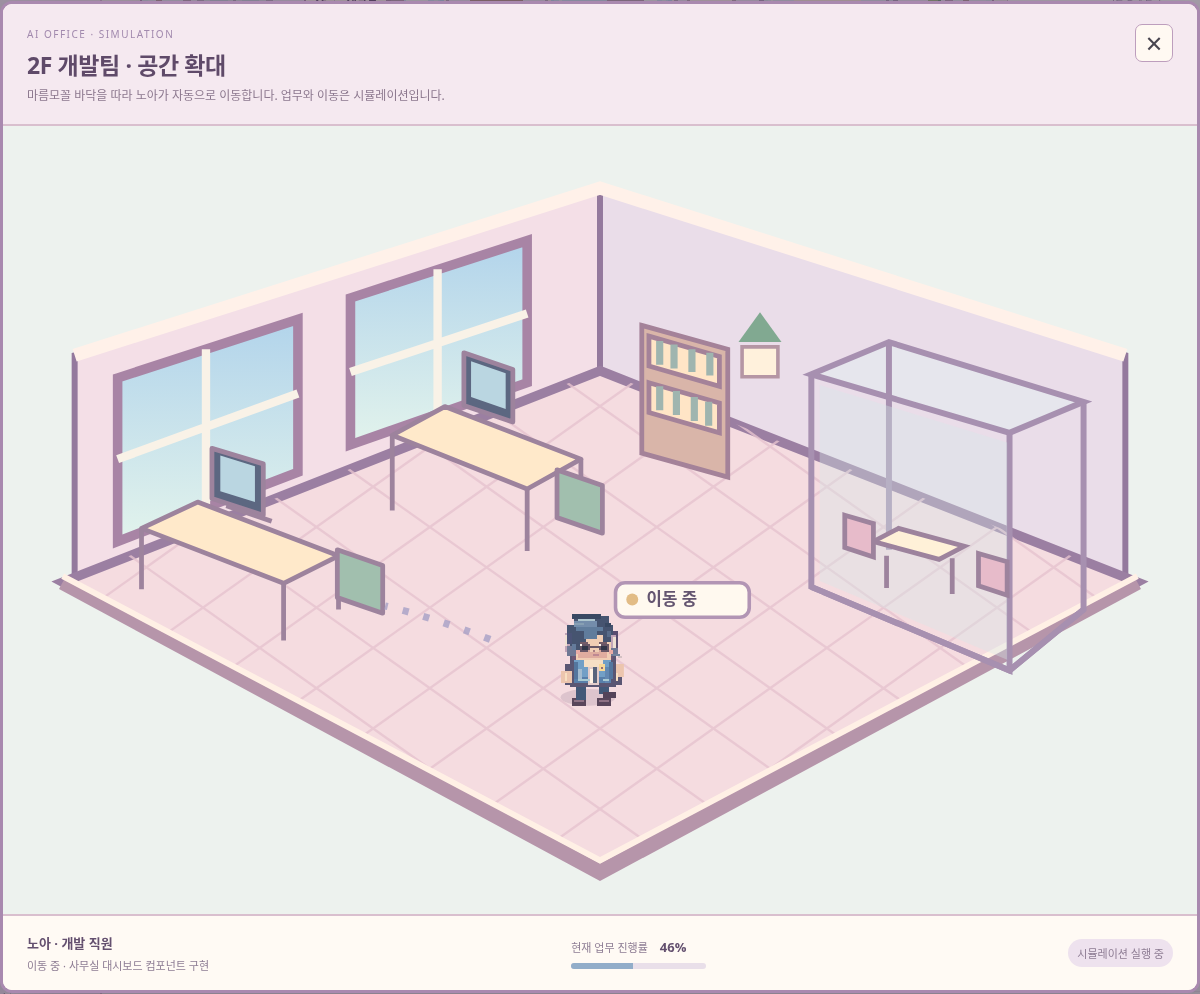
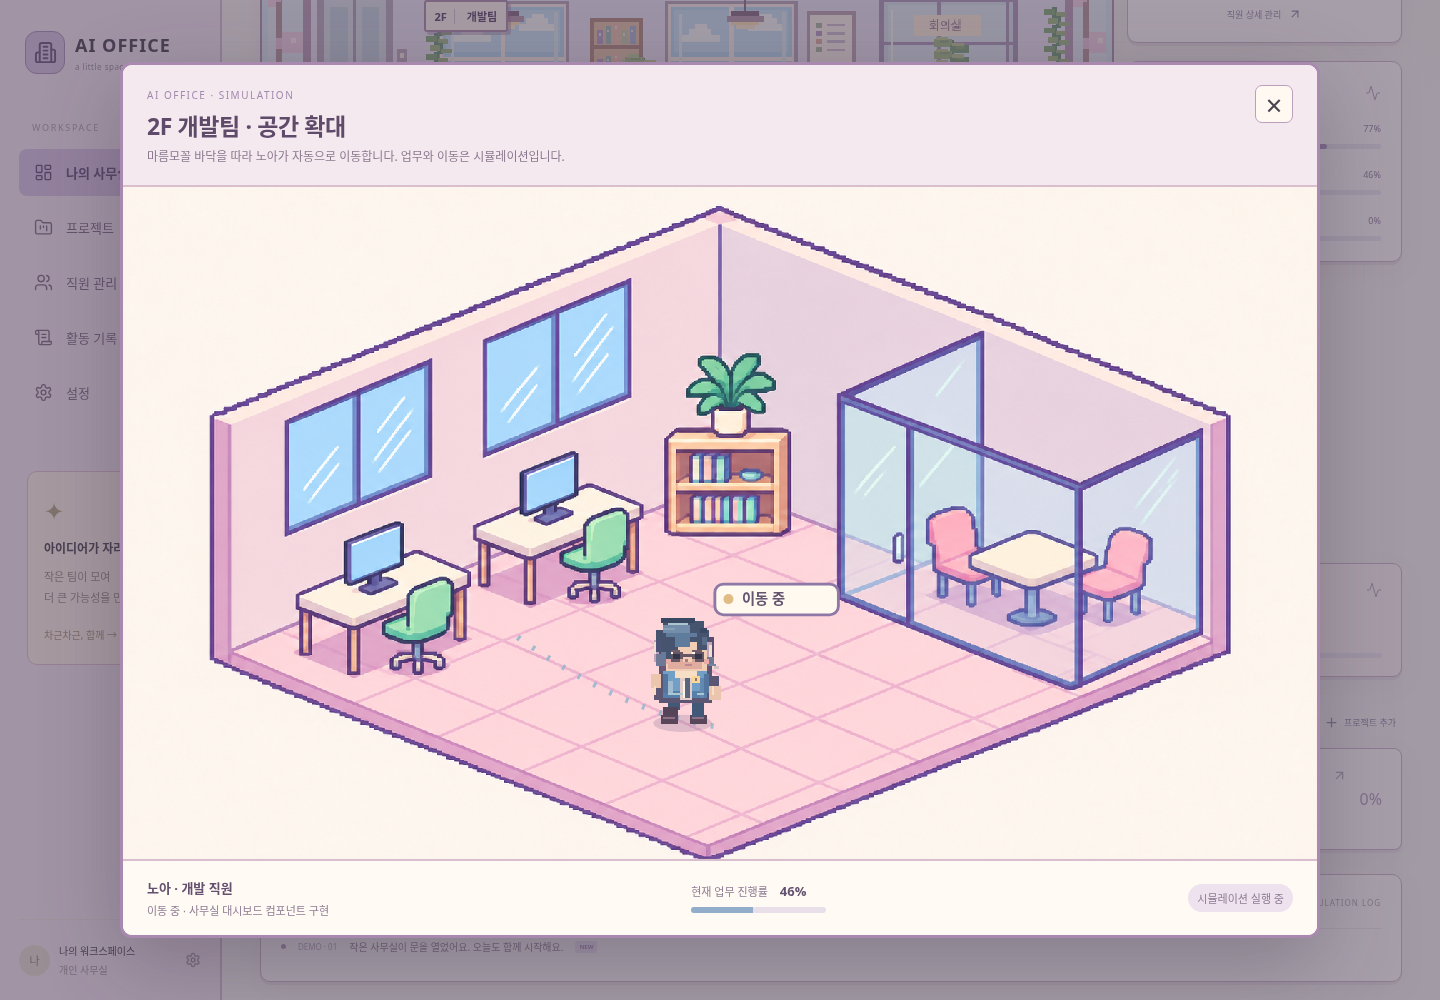
Use original illustrated room art for expanded office floor

diff --git a/src/FloorDetail.tsx b/src/FloorDetail.tsx
@@ -1,6 +1,7 @@
 import {useEffect,useRef,useState} from 'react';
 import type {Employee} from './simulation';
 import {noahSprite} from './noahSprite';
+const roomImage=`${import.meta.env.BASE_URL}rooms/development-floor.png`;
 
 /** A read-only, 2D cutaway of the development floor. Movement belongs to the demo clock. */
 export function FloorDetail({employee,running,onClose}:{employee:Employee;running:boolean;onClose:()=>void}){
@@ -15,41 +16,18 @@ export function FloorDetail({employee,running,onClose}:{employee:Employee;runnin
  const phase=step%90;const walking=running&&working&&!reduced&&(phase<24||phase>=62&&phase<86);
  const lerp=(a:number,b:number,t:number)=>a+(b-a)*t;
  const t=phase<24?phase/24:phase<62?1:phase<86?1-(phase-62)/24:0;
- const x=working?(reduced?290:lerp(522,290,t)):522;const y=working?(reduced?392:lerp(410,392,t)):410;
+ const x=working?(reduced?520:lerp(785,520,t)):785;const y=working?(reduced?510:lerp(620,510,t)):620;
  const frame=walking?(step%6<3?1:2):working&&running&&(phase>=24&&phase<62||reduced)?3:0;
  const activity=working&&!running?'일시정지':walking?'이동 중':working?'책상에서 작업 중':'대기 중';
  return <div className="floor-backdrop" onMouseDown={event=>{if(event.target===event.currentTarget)onClose()}}>
   <section className="floor-dialog" role="dialog" aria-modal="true" aria-labelledby="floor-heading">
    <div className="floor-dialog-header"><div><span>AI OFFICE · SIMULATION</span><h2 id="floor-heading">2F 개발팀 · 공간 확대</h2><p>마름모꼴 바닥을 따라 노아가 자동으로 이동합니다. 업무와 이동은 시뮬레이션입니다.</p></div><button ref={close} className="floor-close" onClick={onClose} aria-label="2층 확대 화면 닫기">×</button></div>
-   <div ref={scroll} className="floor-detail-scroll"><svg className="floor-scene" viewBox="0 0 1000 660" role="img" aria-label={`2층 단면도: 노아 ${activity}. 책상 두 개, 책장과 화분, 유리 회의실이 있는 마름모꼴 공간`}>
-    <defs><clipPath id="floor-diamond"><polygon points="500,205 950,382 500,625 50,382"/></clipPath><linearGradient id="window-blue" x2="0" y2="1"><stop stopColor="#b2d4eb"/><stop offset="1" stopColor="#e2f3ec"/></linearGradient></defs>
-    <rect width="1000" height="660" fill="#edf2ee"/>
-    <polygon points="60,192 500,52 500,205 60,382" fill="#f4dfe7" stroke="#94799d" strokeWidth="5"/>
-    <polygon points="500,52 940,192 940,382 500,205" fill="#eadde9" stroke="#94799d" strokeWidth="5"/>
-    <path d="M60 192 500 52 940 192" fill="none" stroke="#fff1e9" strokeWidth="11"/>
-    <polygon points="96,211 247,162 247,290 96,348" fill="url(#window-blue)" stroke="#a884a5" strokeWidth="8"/>
-    <path d="M170 187V319 M96 279 247 224" stroke="#f9f2e7" strokeWidth="7"/>
-    <polygon points="291,144 439,96 439,215 291,267" fill="url(#window-blue)" stroke="#a884a5" strokeWidth="8"/>
-    <path d="M364 120V242 M291 206 439 157" stroke="#f9f2e7" strokeWidth="7"/>
-    <polygon points="500,205 950,382 500,625 50,382" fill="#f5dce0" stroke="#9b7fa2" strokeWidth="8"/>
-    <g clipPath="url(#floor-diamond)" stroke="#e6c3cf" strokeWidth="2" opacity=".8">{Array.from({length:13},(_,i)=><g key={i}><path d={`M${-140+i*95} 185 ${550+i*95} 675`}/><path d={`M${1140-i*95} 185 ${450-i*95} 675`}/></g>)}</g>
-    <path d="M50 382 500 625 950 382" fill="none" stroke="#b695aa" strokeWidth="13"/>
-    <path d="M50 377 500 615 950 377" fill="none" stroke="#fff0e5" strokeWidth="5"/>
-    {/* Simple furniture, separate from the floor and employee layers. */}
-    <g stroke="#9d839d" strokeWidth="4" strokeLinejoin="round"><path d="M163 315 281 360 235 383 116 337Z" fill="#ffe9ca"/><path d="M116 337v51m119-5v48m46-71v45" fill="none"/><path d="M370 235 484 279 439 304 326 259Z" fill="#ffe9ca"/><path d="M326 259v63m113-18v52m45-77v42" fill="none"/>
-    <path d="M175 270 218 283v43l-43-14Z" fill="#5c6781"/><path d="M182 276 211 285v30l-29-9Z" fill="#bad6e1" stroke="none"/><path d="M187 318 225 331" fill="none"/>
-    <path d="M386 190 427 204v44l-41-14Z" fill="#5c6781"/><path d="M392 197 421 207v30l-29-10Z" fill="#bad6e1" stroke="none"/>
-    <path d="M280 355 318 368v40l-38-13Z" fill="#a1bfae"/><path d="M464 288 502 301v40l-38-13Z" fill="#a1bfae"/></g>
-    <g stroke="#a48299" strokeWidth="4"><path d="M535 167 607 187v107l-72-20Z" fill="#d9b5a9"/><path d="M541 176 600 193v25l-59-17Z" fill="#ffe5c6"/><path d="M541 215 600 232v25l-59-17Z" fill="#ffe5c6"/><path d="M550 180v20m12-17v20m15-16v19m15-16v19M550 218v20m14-16v20m15-15v20m12-16v20" stroke="#9fb5af" strokeWidth="6"/></g>
-    <g><path d="M616 181 634 156 652 181Z" fill="#81a991"/><path d="M619 185h30v25h-30Z" fill="#fff1dc" stroke="#b596a4" strokeWidth="3"/></g>
-    {/* A light glass meeting nook; the near edge stays transparent. */}
-    <g stroke="#a790b0" strokeWidth="5" fill="none"><path d="M677 208 843 257 905 231 742 181Z" fill="#e1edf0" fillOpacity=".55"/><path d="M677 208v178l166 70V257M905 231v174l-62 51M742 181v174"/><path d="M677 386 843 456 905 405"/></g>
-    <path d="M684 217v164l157 66V265Z" fill="#d6e8ea" opacity=".36"/>
-    <g stroke="#9d839d" strokeWidth="4"><path d="M750 337 805 352 784 363 729 348Z" fill="#fff1d8"/><path d="M740 360v27m55-25v30"/><path d="M705 326 729 333v28l-24-8Z" fill="#e7bbca"/><path d="M817 358 841 365v28l-24-8Z" fill="#e7bbca"/></g>
-    <path d="M408 430 Q355 410 320 402" fill="none" stroke="#a6a0c6" strokeWidth="6" strokeDasharray="5 13" opacity={working?.8:0}/>
-    <ellipse cx={x+26} cy={y+73} rx="23" ry="7" fill="#987a93" opacity=".25"/>
-    <svg x={x} y={y} width="56" height="84" viewBox="0 0 32 48" overflow="hidden" style={{imageRendering:'pixelated'}}><image href={noahSprite.url} x={-32*frame} width="128" height="48"/></svg>
-    <g transform={`translate(${x+49} ${y-23})`}><rect x="0" y="0" width="112" height="29" rx="8" fill="#fff9ef" stroke="#b295b4" strokeWidth="3"/><circle cx="14" cy="14" r="5" fill={walking?'#e2bc85':working?'#82b99b':'#c5b8c8'}/><text x="26" y="19" fill="#645570" fontSize="14" fontWeight="bold">{activity}</text></g>
+   <div ref={scroll} className="floor-detail-scroll"><svg className="floor-scene" viewBox="0 0 1672 941" role="img" aria-label={`2층 단면도: 노아 ${activity}. 책상 두 개, 책장과 화분, 유리 회의실이 있는 마름모꼴 공간`}>
+    <image href={roomImage} x="0" y="0" width="1672" height="941"/>
+    {running&&working&&<path d="M827 755 Q700 735 552 630" fill="none" stroke="#94b5cb" strokeWidth="8" strokeDasharray="4 21" opacity=".85"/>}
+    <ellipse cx={x+54} cy={y+154} rx="41" ry="12" fill="#715b87" opacity=".22"/>
+    <svg x={x} y={y} width="108" height="162" viewBox="0 0 32 48" overflow="hidden" style={{imageRendering:'pixelated'}}><image href={noahSprite.url} x={-32*frame} width="128" height="48"/></svg>
+    <g transform={`translate(${x+99} ${y-41})`}><rect x="0" y="0" width="173" height="43" rx="12" fill="#fff9ef" stroke="#8e78a6" strokeWidth="4"/><circle cx="19" cy="21" r="7" fill={walking?'#e2bc85':working?'#82b99b':'#c5b8c8'}/><text x="38" y="28" fill="#645570" fontSize="20" fontWeight="bold">{activity}</text></g>
    </svg></div>
    <div className="floor-detail-footer"><div><strong>노아 · 개발 직원</strong><span>{activity} · {employee.task}</span></div><div><span>현재 업무 진행률</span><strong>{employee.progress}%</strong><div className="floor-meter"><i style={{width:`${employee.progress}%`}}/></div></div><span className="floor-mode">{running?'시뮬레이션 실행 중':'시뮬레이션 정지'}</span></div>
   </section>
